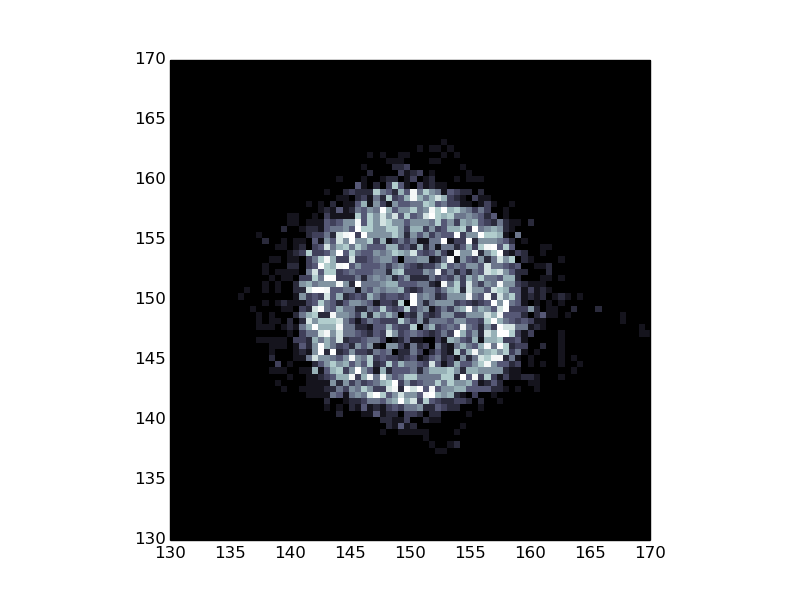
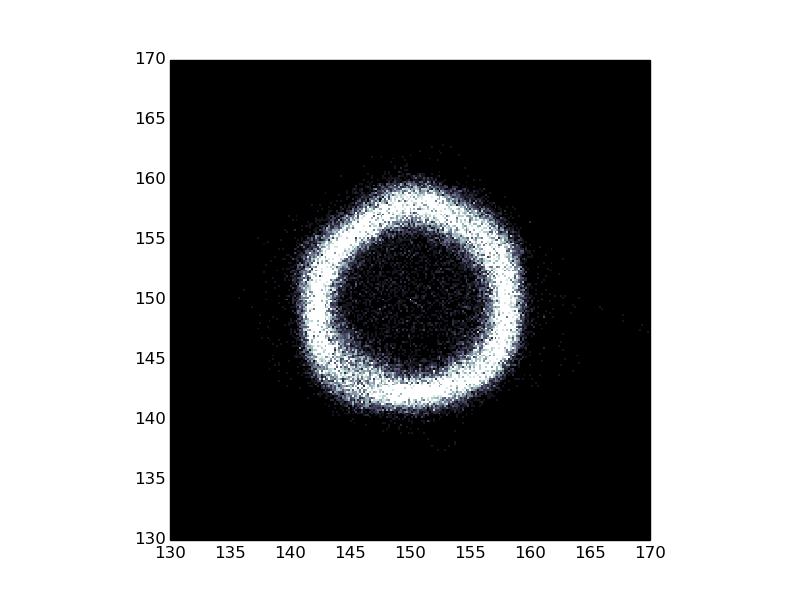
More precision

Changed region(s): [[0.2812, 0.24, 0.75, 0.75], [0.7812, 0.54, 0.8125, 0.57], [0.75, 0.51, 0.7812, 0.54]]

diff --git a/main.py b/main.py
@@ -152,7 +152,7 @@ if __name__ == '__main__':
     runner.set_a_ball_mass(a_ball_mass)
 
     # Membrane size
-    sheet_radius    = [55 + it for it in range(11)]
+    sheet_radius    = [57 + it for it in range(7)]
 
     # Declare score paths
     ball_file = 'data/single_ball.dat'
@@ -163,7 +163,7 @@ if __name__ == '__main__':
     membranes_z = []
 
     # Final settings
-    runner.set_number_of_iterations(int(1e6))
+    runner.set_number_of_iterations(int(1e7))
     runner.set_number_of_cores(8)
 
     for val in sheet_radius:
